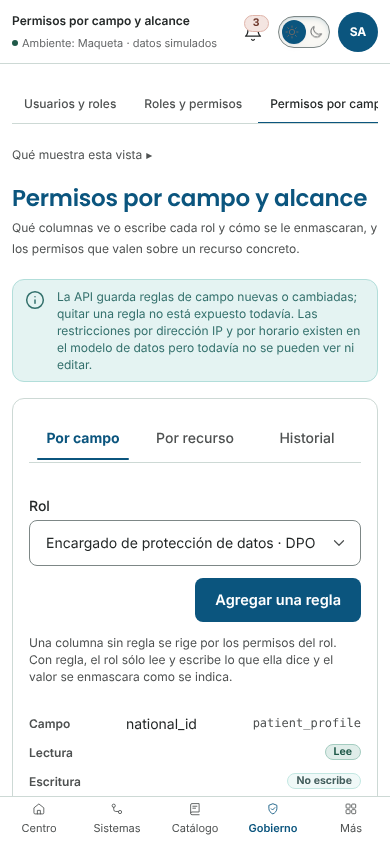
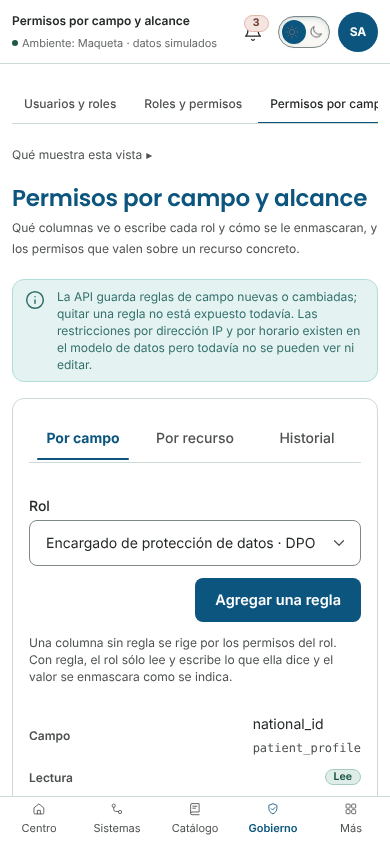
fix(portal): Permisos por campo — cada celda es un solo bloque en la tabla apilada (revisión visual 1)
Claude-Session: https://claude.ai/code/session_015srVoda962hL6gd5RrH9vw

Changed region(s): [[0.6462, 0.8318, 0.9231, 0.955], [0.0615, 0.8318, 0.2154, 0.955], [0.3385, 0.8318, 0.4923, 0.8626]]

diff --git a/src/app/features/admin/portal/permissions/fields/scope-grants-panel.ts b/src/app/features/admin/portal/permissions/fields/scope-grants-panel.ts
@@ -94,26 +94,34 @@ const ANY_PERMISSION = '';
     </div>
 
     <ng-template #subjectCell let-row>
-      <app-badge size="sm" variant="secondary">{{ subject(row.subjectType).label }}</app-badge>
-      <code class="panel__code" [title]="row.subjectId">{{ short(row.subjectId) }}</code>
+      <div class="panel__cell">
+        <app-badge size="sm" variant="secondary">{{ subject(row.subjectType).label }}</app-badge>
+        <code class="panel__code" [title]="row.subjectId">{{ short(row.subjectId) }}</code>
+      </div>
     </ng-template>
     <ng-template #permissionCell let-row>
-      <span class="panel__name">{{ permissionName(row.permissionId) }}</span>
-      <app-badge size="sm" [variant]="effect(row.effect).tone">{{ effect(row.effect).label }}</app-badge>
+      <div class="panel__cell">
+        <span class="panel__name">{{ permissionName(row.permissionId) }}</span>
+        <app-badge size="sm" [variant]="effect(row.effect).tone">{{ effect(row.effect).label }}</app-badge>
+      </div>
     </ng-template>
     <ng-template #resourceCell let-row>
-      <app-badge size="sm" variant="secondary">{{ kind(row.resourceType).label }}</app-badge>
-      <code class="panel__code" [title]="row.resourceId">{{ short(row.resourceId) }}</code>
+      <div class="panel__cell">
+        <app-badge size="sm" variant="secondary">{{ kind(row.resourceType).label }}</app-badge>
+        <code class="panel__code" [title]="row.resourceId">{{ short(row.resourceId) }}</code>
+      </div>
     </ng-template>
     <ng-template #validityCell let-row>
-      <app-badge size="sm" [variant]="row.isEffective ? 'success' : 'secondary'">
-        {{ row.isEffective ? 'Vigente' : 'Terminado o aún no vigente' }}
-      </app-badge>
-      <span class="panel__secondary">
-        @if (row.validFrom) { desde {{ day(row.validFrom) }} }
-        @if (row.validTo) { hasta {{ day(row.validTo) }} }
-        @if (!row.validFrom && !row.validTo) { sin fechas }
-      </span>
+      <div class="panel__cell">
+        <app-badge size="sm" [variant]="row.isEffective ? 'success' : 'secondary'">
+          {{ row.isEffective ? 'Vigente' : 'Terminado o aún no vigente' }}
+        </app-badge>
+        <span class="panel__secondary">
+          @if (row.validFrom) { desde {{ day(row.validFrom) }} }
+          @if (row.validTo) { hasta {{ day(row.validTo) }} }
+          @if (!row.validFrom && !row.validTo) { sin fechas }
+        </span>
+      </div>
     </ng-template>
     <ng-template #actionCell let-row>
       @if (row.isEffective) {

diff --git a/src/app/features/admin/portal/permissions/fields/role-fields-panel.ts b/src/app/features/admin/portal/permissions/fields/role-fields-panel.ts
@@ -104,8 +104,10 @@ import { FieldRuleDialog } from './field-rule-dialog';
     </div>
 
     <ng-template #fieldCell let-row>
-      <span class="panel__name">{{ row.columnName }}</span>
-      <code class="panel__code">{{ row.entity }}</code>
+      <div class="panel__cell">
+        <span class="panel__name">{{ row.columnName }}</span>
+        <code class="panel__code">{{ row.entity }}</code>
+      </div>
     </ng-template>
     <ng-template #readCell let-row>
       <app-badge size="sm" [variant]="row.canRead ? 'success' : 'error'">{{ row.canRead ? 'Lee' : 'No lee' }}</app-badge>
@@ -114,14 +116,16 @@ import { FieldRuleDialog } from './field-rule-dialog';
       <app-badge size="sm" [variant]="row.canWrite ? 'warning' : 'secondary'">{{ row.canWrite ? 'Escribe' : 'No escribe' }}</app-badge>
     </ng-template>
     <ng-template #maskCell let-row>
-      @if (row.maskStrategy) {
-        <app-badge size="sm" [variant]="mask(row.maskStrategy).tone">{{ mask(row.maskStrategy).label }}</app-badge>
-      } @else {
-        <span class="panel__secondary">Sin enmascarar</span>
-      }
-      @if (row.conditionJson) {
-        <app-badge size="sm" variant="info">Con condición</app-badge>
-      }
+      <div class="panel__cell">
+        @if (row.maskStrategy) {
+          <app-badge size="sm" [variant]="mask(row.maskStrategy).tone">{{ mask(row.maskStrategy).label }}</app-badge>
+        } @else {
+          <span class="panel__secondary">Sin enmascarar</span>
+        }
+        @if (row.conditionJson) {
+          <app-badge size="sm" variant="info">Con condición</app-badge>
+        }
+      </div>
     </ng-template>
 
     @if (dialogOpen() && roleId() !== '') {
